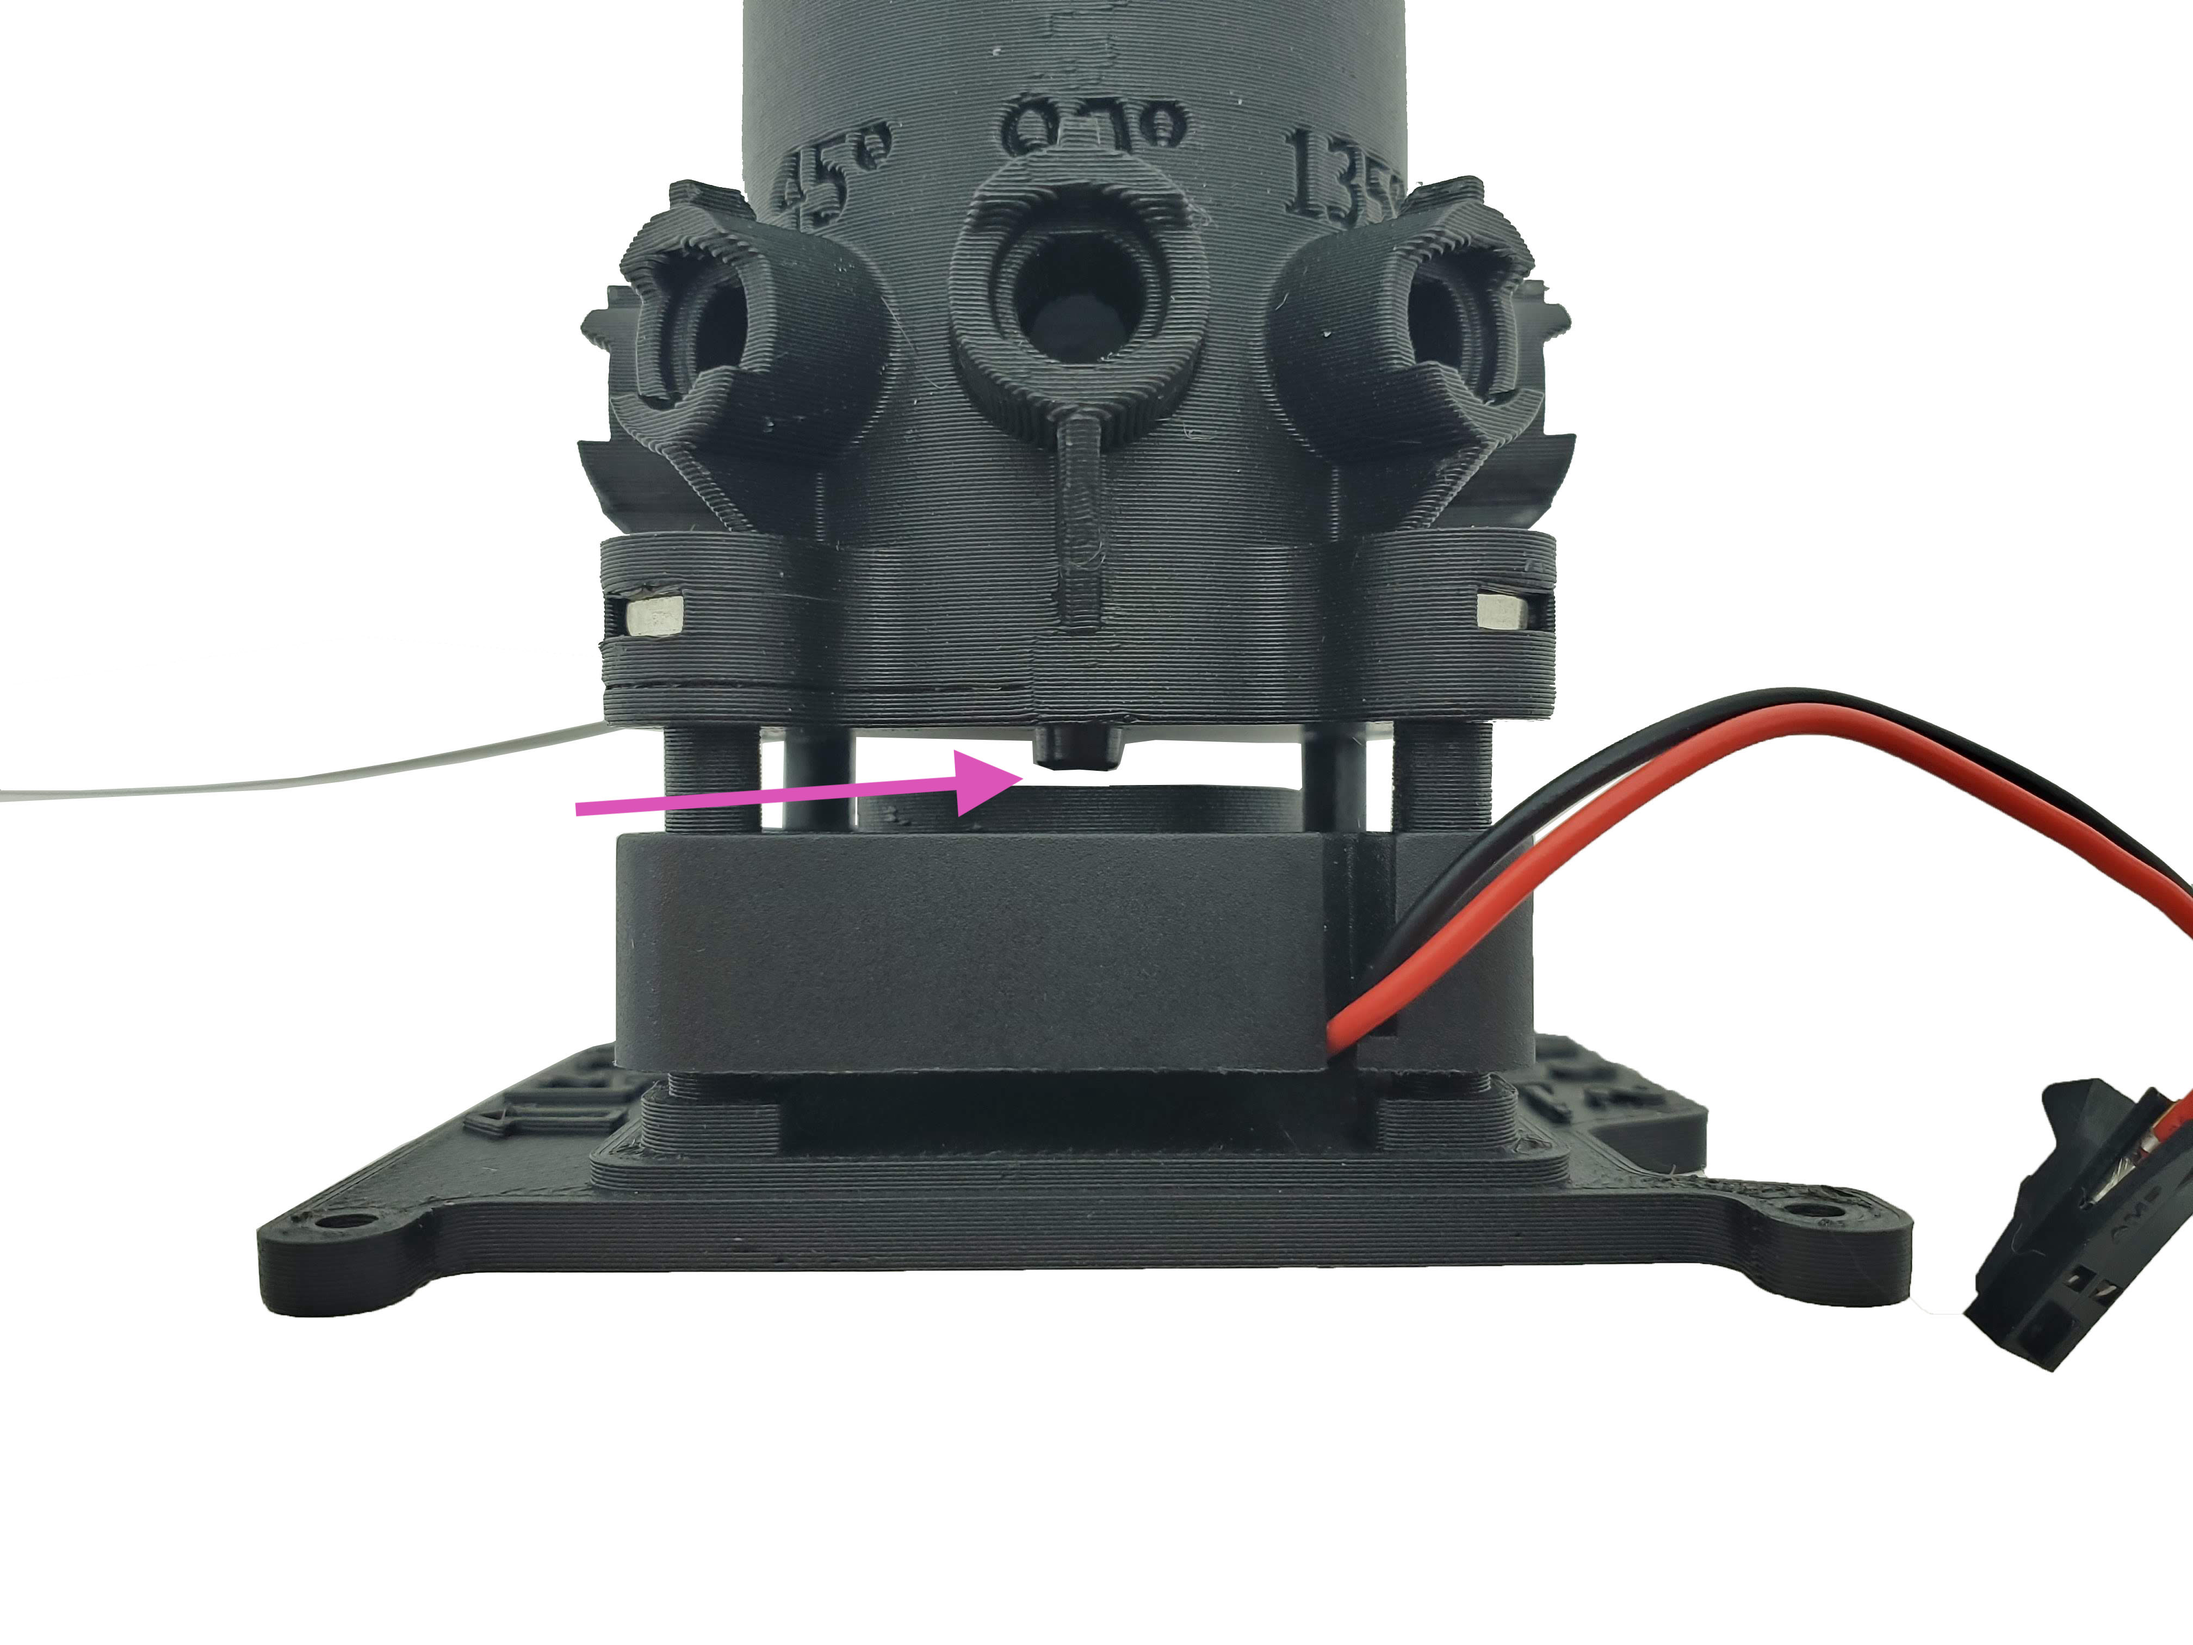
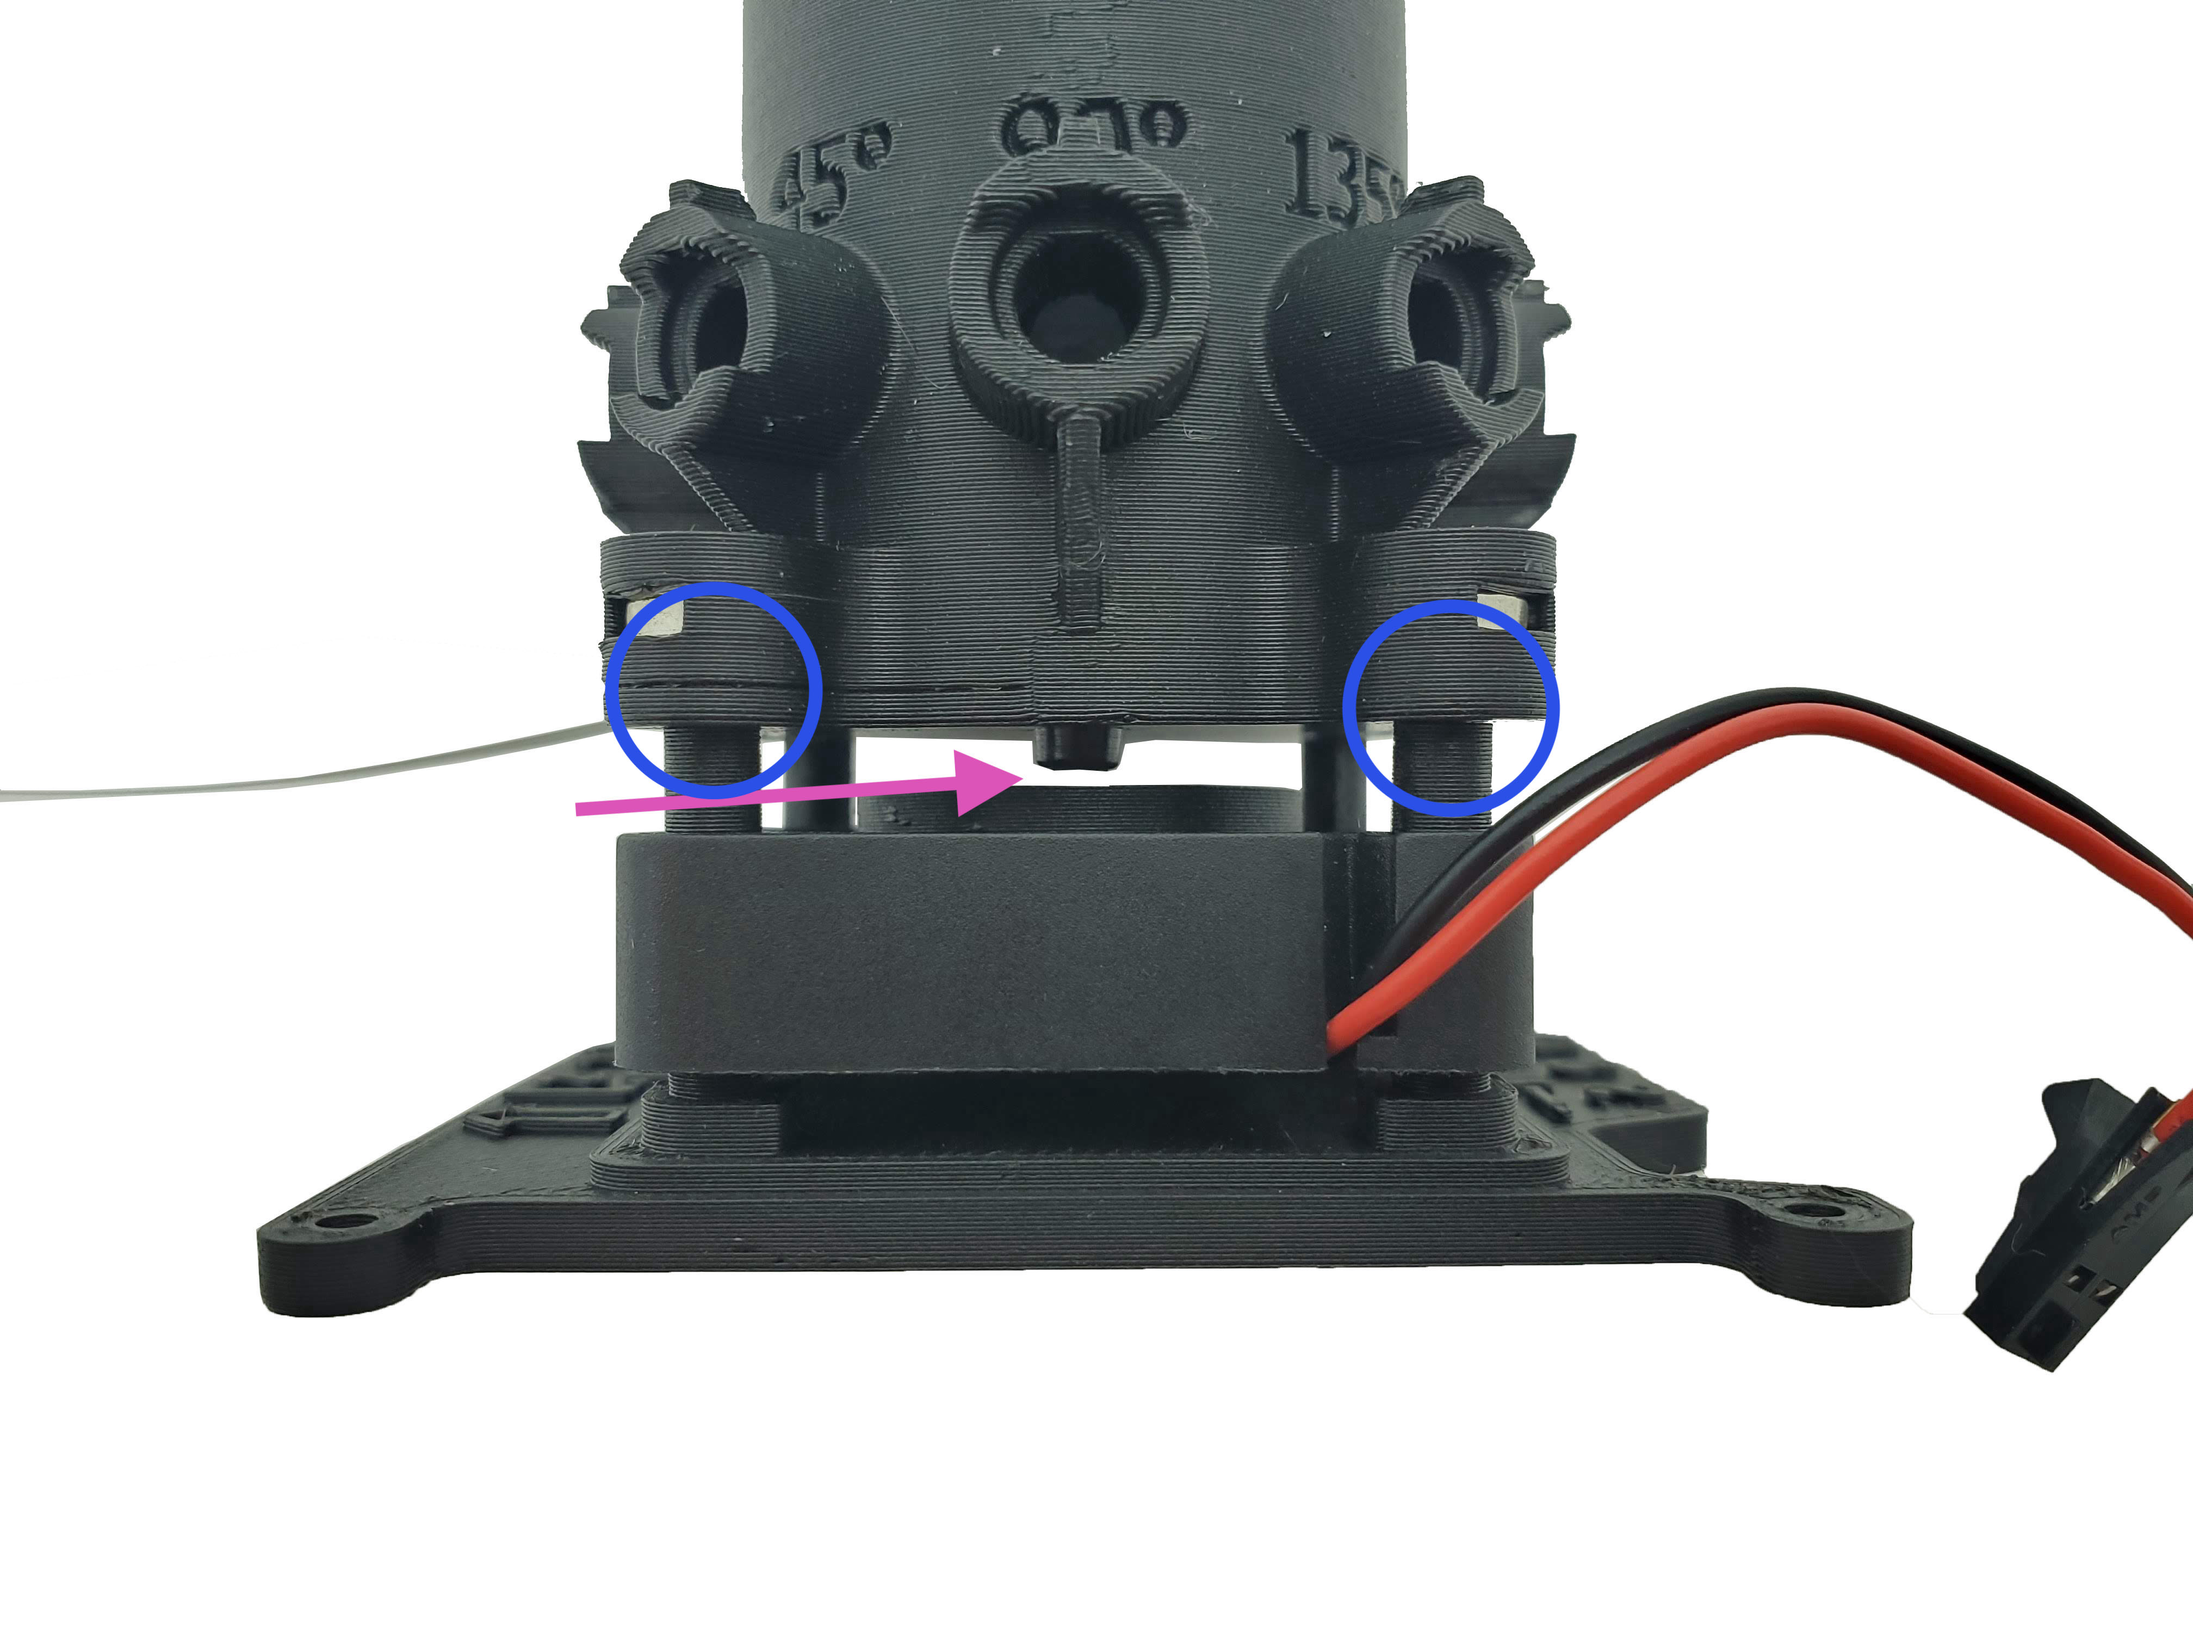
anchor text; improve 30mm screw description

diff --git a/src/components/AssemblyInstructionBlock.js b/src/components/AssemblyInstructionBlock.js
@@ -4,19 +4,27 @@ import styles from './AssemblyInstructionBlock.module.css';
 
 import { useColorMode } from '@docusaurus/theme-common';
 
+function process(value) {
+    return value == undefined ? '' : value.replace(/[^a-z0-9_]+/gi, '-').replace(/^-|-$/g, '').toLowerCase();
+}
+
+
 export default function AssemblyInstructionBlock({children, title, images}) {
 
-  const [mainImage, setMainImage] = React.useState(images[0]);
+
+  const initialImage =  0
+  const url = location.href.split('#')[0];
+  const [mainImage, setMainImage] = React.useState(images[initialImage]);
 
   const imageSelect = (n) => (event) => {
     setMainImage(images[n])
   }
 
   return (
-    <div style={{padding: "10px", margin: "20px 0px 60px 0px", display:"flex", flexWrap: "nowrap"}}>
+    <div id={process(title)} style={{padding: "10px", margin: "20px 0px 60px 0px", display:"flex", flexWrap: "nowrap"}}>
 
       <div id="mainImage" style={{width: "55%", float: "left", marginRight: "10px"}}>
-        <h2> {title} </h2>
+        <h2>{title}  <a href={url + "#" + process(title)}>↴</a></h2>
         <img
           maxHeight={240}
           src={require(`/static/img/${mainImage}`).default}

diff --git a/user-guide/01-getting-started/01b-hardware-set-up/04-faceplate-all-together.md b/user-guide/01-getting-started/01b-hardware-set-up/04-faceplate-all-together.md
@@ -32,8 +32,9 @@ This step may already be done for you. If so, move the to next step.
 <AssemblyInstructionBlock title="Step 3: Securing the vial holder" images={["user-guide/hardware-assembly/vial_holder_on_fan.jpg","user-guide/hardware-assembly/cable_orientation.jpg","user-guide/hardware-assembly/screw_vial_holder_faceplate.jpg","user-guide/hardware-assembly/vial_holder_alignment.jpg"]}>
 
 1.	Place the vial holder on top of the faceplate piece. The flat cable should follow the <Highlight color={colors.red}>arrow on the faceplate</Highlight>.
-2.	Holding it together, finish screwing the bottom of the faceplate. The Screws will enter the square nuts you placed into the vial holder. **Do not overtighten**. The screw heads should be flush with the faceplate.
-3. Use the screwdriver to check that the fan can spin freely without rubbing against the <Highlight color={colors.magenta}>screws above</Highlight>.
+2.	Holding it together, finish screwing the bottom of the faceplate. The screws will enter square nuts in the vial holder. Do not overtighten.
+3. The screw heads will be flush with the faceplate, and there should be <Highlight color={colors.blue}>no screw threads</Highlight> showing between the vial holder and the faceplate.
+4. Use the screwdriver to check that the fan can spin freely without rubbing against the <Highlight color={colors.magenta}>screws above</Highlight>.
 
 </AssemblyInstructionBlock>
 

diff --git a/developer-guide/04-Automations/04-writing-pump-software.md b/developer-guide/04-Automations/04-writing-pump-software.md
@@ -48,7 +48,7 @@ class CustomPumper(DosingAutomationJob):
     remove_waste_from_bioreactor = custom_remove_media_program
 
     def __init__(self, **kwargs):
-        super(CustomPump, self).__init__(**kwargs)
+        super().__init__(**kwargs)
 
     def execute(self):
         self.execute_io_action(media_ml=1.0, alt_media_ml=1.0, waste_ml=2.0)
